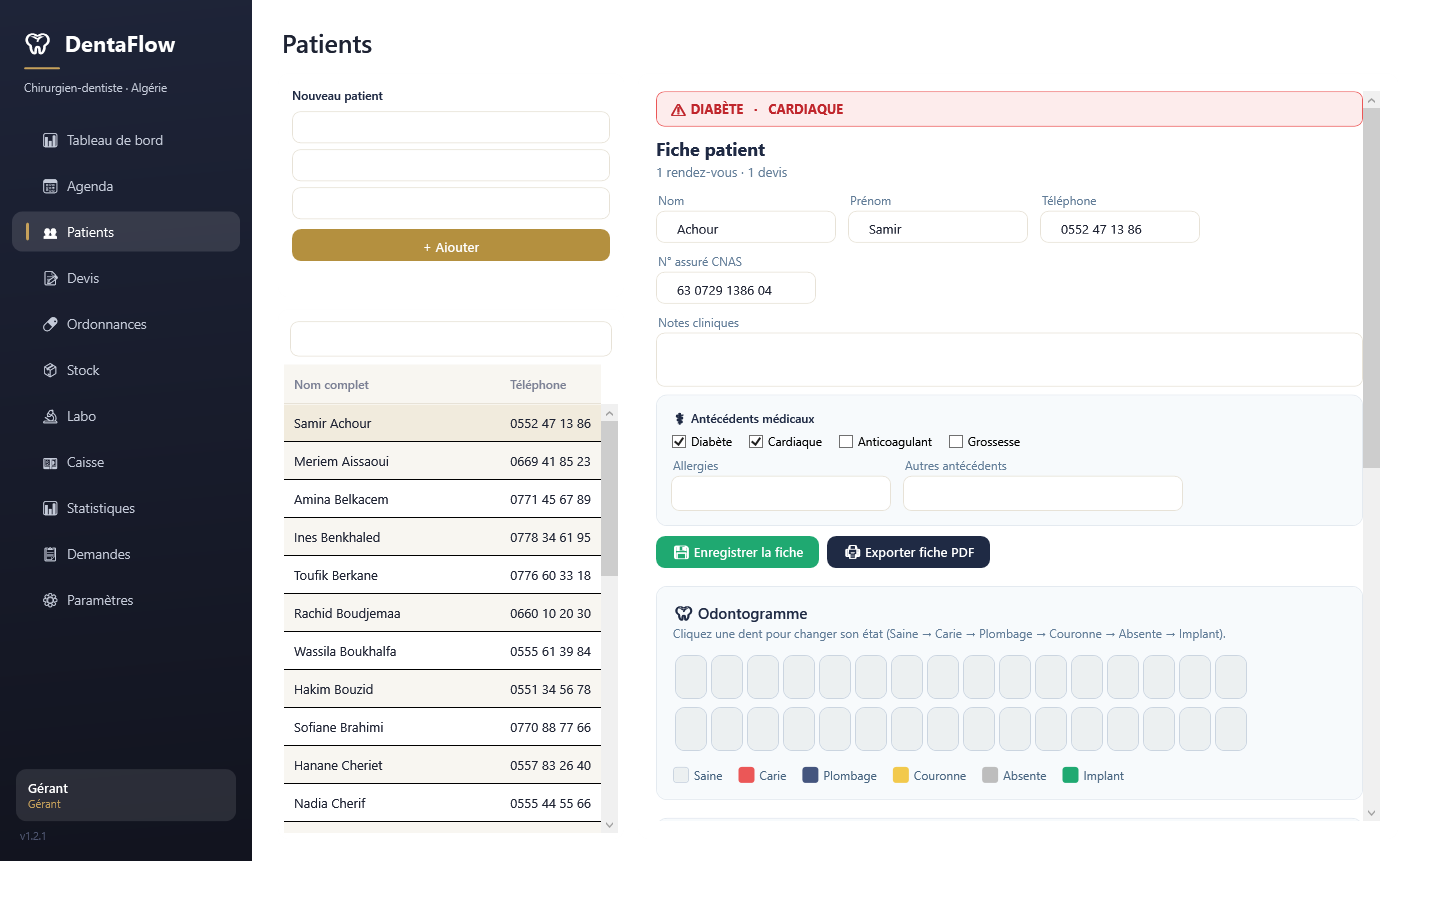
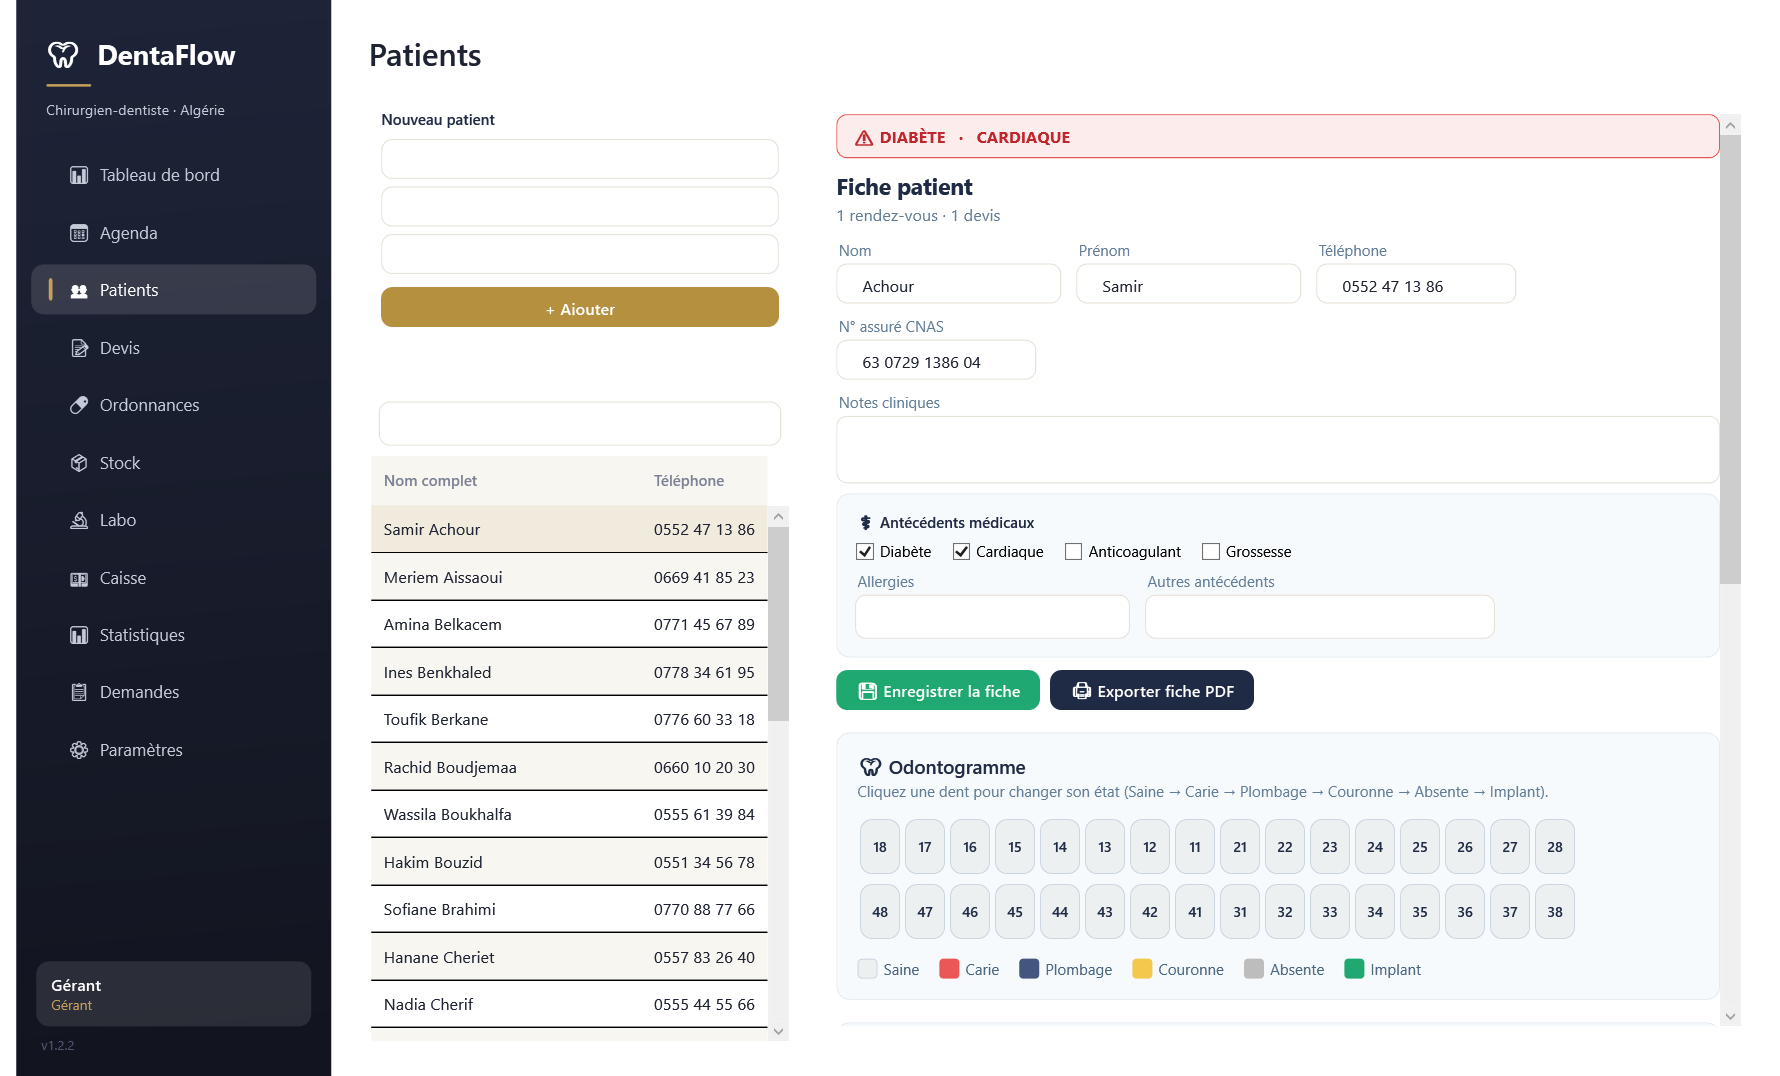
Site : bulles zoomees sur les fonctionnalites, captures aux proportions exactes
- Rendu des captures a la taille reelle de l element (plus de bande blanche
  ni de deformation) et suppression de la rotation 3D du visuel principal
- Six bulles zoomees : recette du jour, agenda, alertes, odontogramme,
  chiffre d affaires, impayes
- Visuels larges defilables horizontalement sur mobile pour rester lisibles
- Correction app : les numeros de dents de l odontogramme etaient masques
  par le padding du bouton ; couleurs des dents alignees sur la legende

diff --git a/index.html b/index.html
@@ -1,4 +1,4 @@
-<!DOCTYPE html>
+<!DOCTYPE html>
 <html lang="fr">
 <head>
 <meta charset="utf-8">
@@ -91,12 +91,39 @@
   .frame-title{margin-left:10px;font-size:.76rem;color:var(--ink2);letter-spacing:.02em}
   .frame img{width:100%;display:block}
 
+  /* Aucune transformation 3D ici : elle écraserait la capture verticalement. */
   .hero-shot{margin-top:58px;position:relative}
-  .hero-shot .frame{transform:perspective(2200px) rotateX(2.4deg)}
 
   /* ---------- Sections ---------- */
   section{padding:96px 0}
   .band{background:var(--surface);border-top:1px solid var(--line);border-bottom:1px solid var(--line)}
+
+  /* ---------- Bulles de fonctionnalités ---------- */
+  .bulles{display:grid;grid-template-columns:repeat(12,1fr);gap:20px;margin-top:46px}
+  .bulle{grid-column:span 6;background:var(--surface);border:1px solid var(--line);
+         border-radius:18px;padding:26px 26px 0;overflow:hidden;display:flex;flex-direction:column;
+         transition:transform .22s,box-shadow .22s,border-color .22s}
+  .bulle:hover{transform:translateY(-5px);box-shadow:var(--shadow);border-color:#DCD5C3}
+  .bulle.large{grid-column:span 12}
+  .bulle.tiers{grid-column:span 4}
+  @media(max-width:900px){.bulle,.bulle.large,.bulle.tiers{grid-column:span 12}}
+  .bulle .tete{display:flex;gap:13px;align-items:flex-start;margin-bottom:16px}
+  .bulle .pic{width:40px;height:40px;border-radius:11px;background:var(--gold-soft);
+              display:grid;place-items:center;font-size:1.12rem;flex:none}
+  .bulle h3{font-size:1.06rem;margin-bottom:3px}
+  .bulle p{color:var(--ink2);font-size:.9rem;line-height:1.55}
+  /* Le visuel déborde volontairement en bas : effet « fenêtre sur le logiciel ». */
+  .shot{margin:auto -6px -1px;border-radius:12px 12px 0 0;overflow:hidden;
+        border:1px solid var(--line);border-bottom:0;background:#FBFAF7;
+        box-shadow:0 -1px 0 rgba(0,0,0,.02),0 18px 40px -22px rgba(23,26,36,.5)}
+  .shot img{width:100%;height:auto;display:block}
+  .shot.crop{max-height:270px;overflow:hidden}
+  /* Sur mobile, un visuel très large deviendrait illisible en le réduisant :
+     on lui garde une hauteur lisible et on le fait défiler horizontalement. */
+  @media(max-width:700px){
+    .shot.wide{overflow-x:auto;-webkit-overflow-scrolling:touch}
+    .shot.wide img{width:auto;max-width:none;height:200px}
+  }
 
   /* ---------- Lecteur tutoriel ---------- */
   .player{display:grid;grid-template-columns:1fr 322px;gap:28px;margin-top:44px;align-items:start}
@@ -224,7 +251,6 @@
   @media (prefers-reduced-motion:reduce){
     .reveal{opacity:1;transform:none;transition:none}
     html{scroll-behavior:auto}
-    .hero-shot .frame{transform:none}
   }
 </style>
 </head>
@@ -237,6 +263,7 @@
       DentaFlow
     </a>
     <nav class="nav-links">
+      <a href="#apercu">Aperçu</a>
       <a href="#tutoriel">Démonstration</a>
       <a href="#modules">Modules</a>
       <a href="#cabinet">Multi-postes</a>
@@ -256,7 +283,7 @@
       fonctionne <strong>sans internet</strong> et se paie <strong>une seule fois</strong>.</p>
     <div class="cta">
       <a class="btn btn-gold" href="#telecharger">Essayer 3 jours gratuitement</a>
-      <a class="btn btn-ghost" href="#tutoriel">▶ Voir la démonstration</a>
+      <a class="btn btn-ghost" href="#apercu">Voir le logiciel en images</a>
     </div>
     <div class="trust">
       <span><svg viewBox="0 0 20 20" fill="currentColor"><path d="M8 13.2 4.8 10l-1.1 1.1L8 15.4l8.4-8.4-1.1-1.1z"/></svg> 100 % hors-ligne</span>
@@ -273,6 +300,93 @@
     </div>
   </div>
 </div>
+
+<!-- ===================== BULLES DE FONCTIONNALITÉS ===================== -->
+<section id="apercu">
+  <div class="wrap">
+    <div class="center reveal">
+      <span class="eyebrow">En détail</span>
+      <h2>Ce que vous avez sous les yeux, chaque jour</h2>
+      <div class="rule" style="margin-left:auto;margin-right:auto"></div>
+      <p class="lead">Des captures réelles du logiciel, zoomées sur ce qui compte vraiment
+        pour votre cabinet.</p>
+    </div>
+
+    <div class="bulles">
+      <div class="bulle large reveal">
+        <div class="tete">
+          <div class="pic">💰</div>
+          <div>
+            <h3>Votre recette du jour, en direct</h3>
+            <p>Dès l'ouverture du logiciel : ce que vous avez encaissé aujourd'hui, le nombre de
+              rendez-vous, votre taux d'absentéisme et les devis qui dorment encore.</p>
+          </div>
+        </div>
+        <div class="shot wide"><img src="captures/z1-recette-du-jour.png" alt="Indicateurs du jour : recette encaissée, rendez-vous, no-show, devis en attente" loading="lazy"></div>
+      </div>
+
+      <div class="bulle reveal">
+        <div class="tete">
+          <div class="pic">📅</div>
+          <div>
+            <h3>Toute la journée en un écran</h3>
+            <p>Heure, patient, motif, praticien et statut : vous savez à chaque instant
+              qui est passé, qui est confirmé et qui reste à venir.</p>
+          </div>
+        </div>
+        <div class="shot crop"><img src="captures/z2-agenda-du-jour.png" alt="Liste des rendez-vous du jour avec statuts colorés" loading="lazy"></div>
+      </div>
+
+      <div class="bulle reveal">
+        <div class="tete">
+          <div class="pic">🔔</div>
+          <div>
+            <h3>Ce qui vous coûte de l'argent</h3>
+            <p>Prothèses en retard au laboratoire, consommables sous le seuil et impayés :
+              tout ce qui demande une action est réuni au même endroit.</p>
+          </div>
+        </div>
+        <div class="shot crop"><img src="captures/z3-alertes.png" alt="Panneau d'alertes : laboratoire en retard, stock bas, impayés" loading="lazy"></div>
+      </div>
+
+      <div class="bulle large reveal">
+        <div class="tete">
+          <div class="pic">🦷</div>
+          <div>
+            <h3>Odontogramme interactif</h3>
+            <p>Cliquez une dent pour faire évoluer son état — saine, carie, plombage, couronne,
+              absente, implant. Le schéma dentaire complet du patient, toujours à jour.</p>
+          </div>
+        </div>
+        <div class="shot wide"><img src="captures/z4-odontogramme.png" alt="Odontogramme : schéma dentaire avec état de chaque dent" loading="lazy"></div>
+      </div>
+
+      <div class="bulle large reveal">
+        <div class="tete">
+          <div class="pic">📊</div>
+          <div>
+            <h3>Votre chiffre d'affaires, mois par mois</h3>
+            <p>Six mois d'activité en un coup d'œil. Vous voyez immédiatement vos bons mois,
+              vos creux, et l'effet de vos décisions.</p>
+          </div>
+        </div>
+        <div class="shot wide"><img src="captures/z5-chiffre-affaires.png" alt="Graphique du chiffre d'affaires sur six mois" loading="lazy"></div>
+      </div>
+
+      <div class="bulle large reveal">
+        <div class="tete">
+          <div class="pic">💸</div>
+          <div>
+            <h3>Les impayés, et comment les récupérer</h3>
+            <p>Chaque devis accepté non soldé, avec le reste à payer — et un bouton pour
+              relancer le patient sur WhatsApp en un clic.</p>
+          </div>
+        </div>
+        <div class="shot wide"><img src="captures/z6-impayes.png" alt="Tableau des impayés avec bouton de relance WhatsApp" loading="lazy"></div>
+      </div>
+    </div>
+  </div>
+</section>
 
 <!-- ===================== TUTORIEL ===================== -->
 <section id="tutoriel" class="band">
